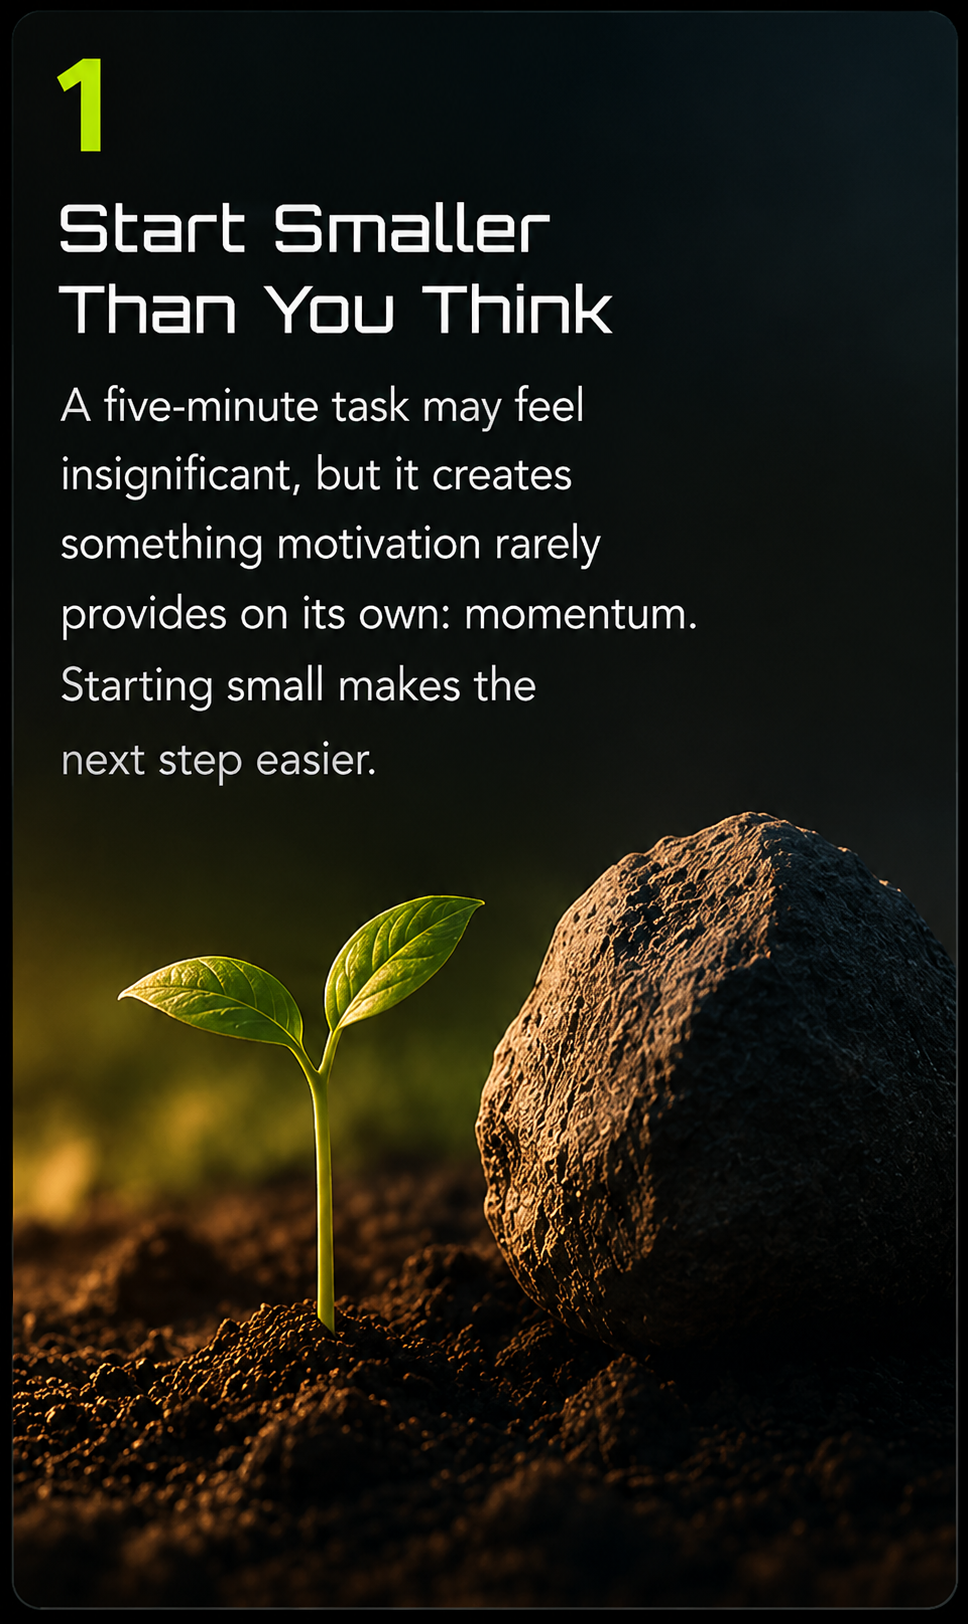
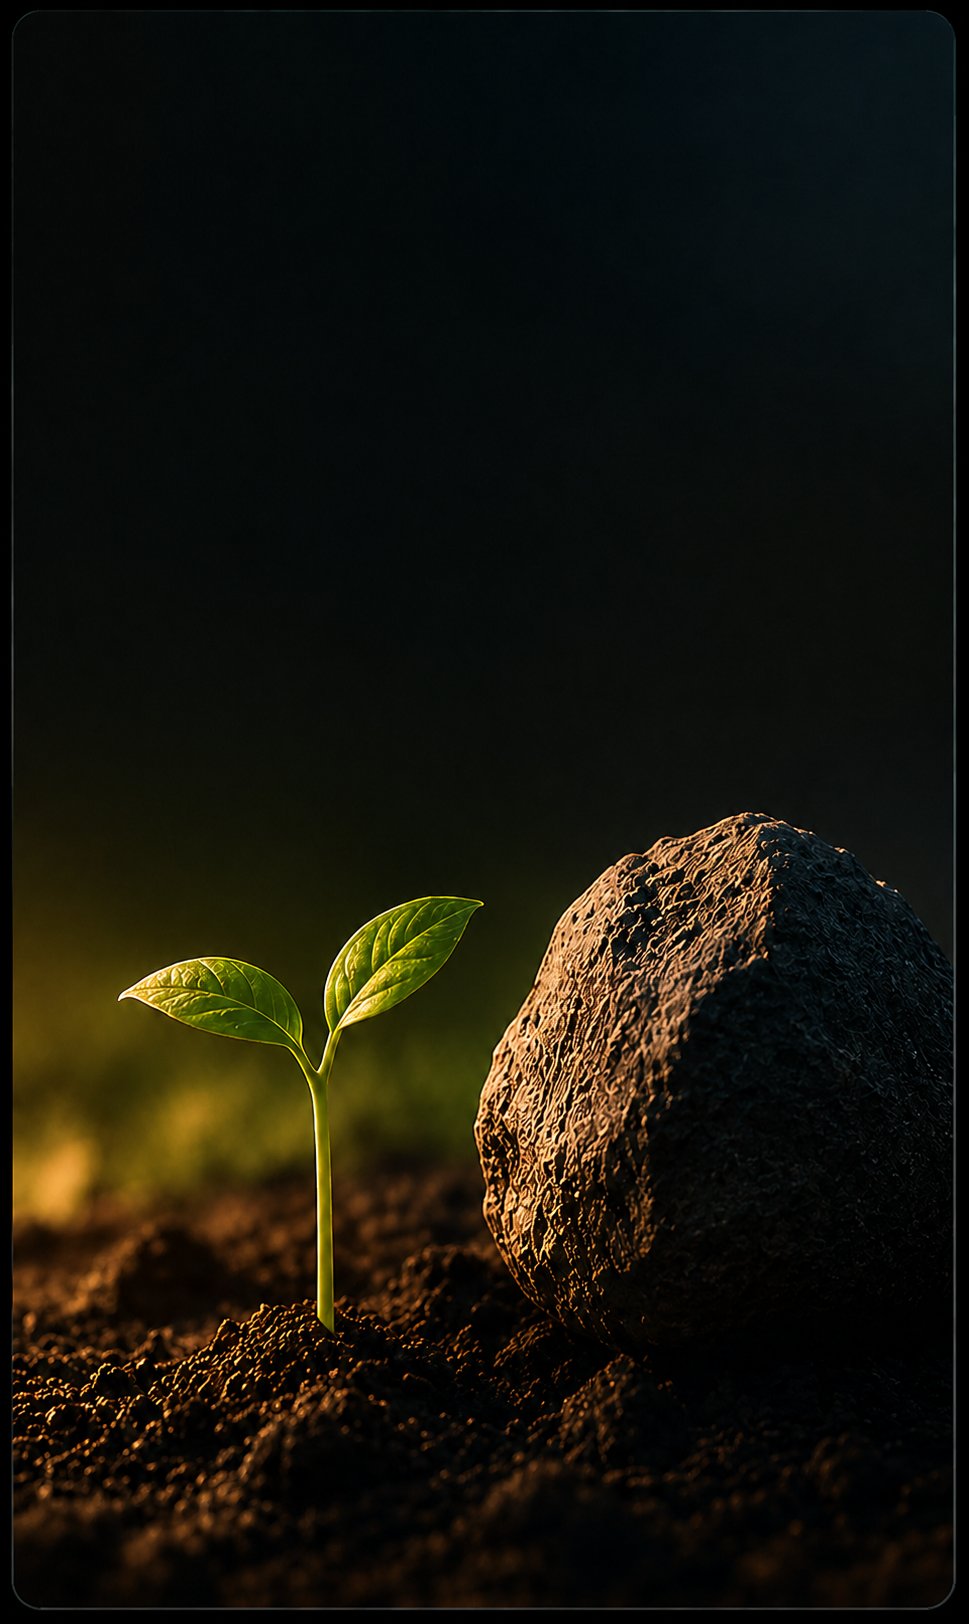
More improvements to onboarding

diff --git a/src/app/tasktimer/components/TaskLaunchOnboarding.tsx b/src/app/tasktimer/components/TaskLaunchOnboarding.tsx
@@ -64,7 +64,6 @@ export type StepKey =
   | "chronotypeChoice"
   | "chronotypeSelection"
   | "chronotypeResult"
-  | "showingUpProgress"
   | "days"
   | "missedDaysProgress"
   | "firstTask"
@@ -112,15 +111,12 @@ export const ONBOARDING_FIRST_TASK_PRESET_COLORS: Readonly<Record<string, string
   "Plan next day": TASK_COLOR_PALETTE[2],
 };
 export const ONBOARDING_FIRST_TASK_PRESET_NAMES = ADD_TASK_PRESET_NAMES.filter((presetName) => presetName !== "Brush teeth");
-export const ONBOARDING_SHOWING_UP_PROGRESS_TITLE = "Focus on Showing Up";
-export const ONBOARDING_SHOWING_UP_PROGRESS_SUBTEXT =
-  "Some days will produce major progress. Others may only produce a few focused minutes. Both matter, because showing up keeps the habit alive.";
 export const ONBOARDING_MISSED_DAYS_PROGRESS_TITLE = "Missed Days Do Not Erase Progress";
 export const ONBOARDING_MISSED_DAYS_PROGRESS_SUBTEXT =
   "A disrupted routine is not a failed routine. Returning after a difficult day is part of building the habit, not proof that you have lost it.";
-export const ONBOARDING_IMPLEMENTATION_INTENTIONS_TITLE = "Your brain responds to precision";
+export const ONBOARDING_IMPLEMENTATION_INTENTIONS_TITLE = "Start Smaller Than You Think";
 export const ONBOARDING_IMPLEMENTATION_INTENTIONS_SUBTEXT =
-  "Vague goals create vague results.\n\nResearch on implementation intentions shows that people who define exactly what they plan to do are two to three times more likely to follow through. You've already taken that first step, which means you're no longer just thinking about change. You're building a clear path towards making it happen.";
+  "A five-minute task may feel insignificant, but it creates something motivation rarely provides on its own: momentum. Starting small makes the next step easier.";
 
 export const ONBOARDING_STEPS: ReadonlyArray<{ key: StepKey; title: string }> = [
   { key: "username", title: "Username" },
@@ -128,7 +124,6 @@ export const ONBOARDING_STEPS: ReadonlyArray<{ key: StepKey; title: string }> = 
   { key: "chronotypeChoice", title: ONBOARDING_CHRONOTYPE_CHOICE_PROMPT },
   { key: "chronotypeSelection", title: ONBOARDING_CHRONOTYPE_SELECTION_PROMPT },
   { key: "chronotypeResult", title: "Chronotype Result" },
-  { key: "showingUpProgress", title: ONBOARDING_SHOWING_UP_PROGRESS_TITLE },
   { key: "days", title: "Productivity Days" },
   { key: "missedDaysProgress", title: ONBOARDING_MISSED_DAYS_PROGRESS_TITLE },
   { key: "firstTask", title: "Let's add your first task" },
@@ -147,7 +142,6 @@ export function onboardingFirstTaskSelectionTitle(choiceId: OnboardingFirstTaskC
 }
 
 export function onboardingNextStepIndex(activeStep: StepKey, stepIndex: number) {
-  if (activeStep === "showingUpProgress") return onboardingStepIndex("chronotypeResult");
   if (activeStep === "firstTask") return stepIndex;
   if (activeStep === "firstTaskSelection") return onboardingStepIndex("implementationIntentions");
   return Math.min(ONBOARDING_STEPS.length - 1, stepIndex + 1);
@@ -181,7 +175,7 @@ export function onboardingBackNavigation(input: {
 }) {
   if (input.activeStep === "chronotypeResult" && input.chronotypeResultPhase === "hours") {
     return {
-      nextStepIndex: onboardingStepIndex("showingUpProgress"),
+      nextStepIndex: onboardingStepIndex("chronotypeResult"),
       nextChronotypeResultPhase: "summary" as ChronotypeResultPhase,
       resetChronotypeChoice: false,
     };
@@ -563,7 +557,6 @@ function stepIntro(step: StepKey, isNativeRuntime: boolean) {
   if (step === "username") return "Confirm the username people will see in TaskLaunch social surfaces.";
   if (step === "chronotypeChoice") return ONBOARDING_CHRONOTYPE_CHOICE_PROMPT;
   if (step === "chronotypeSelection") return ONBOARDING_CHRONOTYPE_SELECTION_PROMPT;
-  if (step === "showingUpProgress") return ONBOARDING_SHOWING_UP_PROGRESS_SUBTEXT;
   if (step === "days") return "Choose the days that count toward your productivity streaks, rewards, and dashboard insights.";
   if (step === "firstTask") {
     return "These simple tasks are easy to complete for a quick win, while also helping you build positive daily habits and support your mental wellbeing.";
@@ -638,7 +631,6 @@ export function shouldShowOnboardingStepImage(step: StepKey) {
     step !== "chronotypeResult" &&
     step !== "firstTask" &&
     step !== "firstTaskSelection" &&
-    step !== "implementationIntentions" &&
     step !== "push"
   );
 }
@@ -646,22 +638,22 @@ export function shouldShowOnboardingStepImage(step: StepKey) {
 export function shouldShowOnboardingStepSubtext(step: StepKey) {
   return (
     step !== "days" &&
-    step !== "showingUpProgress" &&
     step !== "missedDaysProgress" &&
     step !== "greeting" &&
     step !== "chronotypeChoice" &&
     step !== "chronotypeSelection" &&
     step !== "chronotypeResult" &&
-    step !== "firstTaskSelection"
+    step !== "firstTaskSelection" &&
+    step !== "implementationIntentions"
   );
 }
 
 export function shouldShowOnboardingStepHeading(step: StepKey) {
-  return step !== "chronotypeChoice" && step !== "showingUpProgress" && step !== "missedDaysProgress";
+  return step !== "chronotypeChoice" && step !== "missedDaysProgress" && step !== "implementationIntentions";
 }
 
 export function shouldShowOnboardingBackAction(step: StepKey, stepIndex: number) {
-  return stepIndex > 0 && step !== "implementationIntentions";
+  return stepIndex > 0 && step !== "implementationIntentions" && step !== "push";
 }
 
 type OnboardingCustomPropertyStyle = CSSProperties & {
@@ -1160,11 +1152,6 @@ export default function TaskLaunchOnboarding({ preferences }: TaskLaunchOnboardi
       setStatus("");
     };
     if (activeStep === "chronotypeResult" && chronotypeResultPhase === "summary") {
-      advanceToNextStep();
-      return;
-    }
-    if (activeStep === "showingUpProgress") {
-      setStepIndex(onboardingStepIndex("chronotypeResult"));
       setChronotypeResultPhase("hours");
       setStatus("");
       setError("");
@@ -1295,9 +1282,9 @@ export default function TaskLaunchOnboarding({ preferences }: TaskLaunchOnboardi
   const isChronotypeChoiceStep = activeStep === "chronotypeChoice";
   const isChronotypeSelectionStep = activeStep === "chronotypeSelection";
   const isChronotypeResultStep = activeStep === "chronotypeResult";
-  const isShowingUpProgressStep = activeStep === "showingUpProgress";
   const isMissedDaysProgressStep = activeStep === "missedDaysProgress";
-  const isAnecdoteStep = isShowingUpProgressStep || isMissedDaysProgressStep;
+  const isImplementationIntentionsStep = activeStep === "implementationIntentions";
+  const isAnecdoteStep = isMissedDaysProgressStep || isImplementationIntentionsStep;
   const isImageStoryStep = isChronotypeChoiceStep || isAnecdoteStep;
   const isChronotypeHoursPhase = isChronotypeResultStep && chronotypeResultPhase === "hours";
   const isChronotypeResultSummaryStep = isChronotypeResultStep && chronotypeResultPhase === "summary" && !!selectedChronotypeSummary;
@@ -1322,19 +1309,12 @@ export default function TaskLaunchOnboarding({ preferences }: TaskLaunchOnboardi
       ? selectedChronotypeResult?.accentColor || ONBOARDING_NEUTRAL_BACKGROUND_ACCENT
       : onboardingBackgroundAccent,
   } as OnboardingCustomPropertyStyle;
-  const anecdoteStepContent = isShowingUpProgressStep
-    ? {
-        title: ONBOARDING_SHOWING_UP_PROGRESS_TITLE,
-        subtext: ONBOARDING_SHOWING_UP_PROGRESS_SUBTEXT,
-        imageSrc: "/onboarding/onboarding_showing_up.png",
-        titleId: "onboardingShowingUpProgressTitle",
-      }
-    : {
-        title: ONBOARDING_MISSED_DAYS_PROGRESS_TITLE,
-        subtext: ONBOARDING_MISSED_DAYS_PROGRESS_SUBTEXT,
-        imageSrc: "/onboarding/onboarding_missed_days.png",
-        titleId: "onboardingMissedDaysProgressTitle",
-      };
+  const anecdoteStepContent = {
+    title: isImplementationIntentionsStep ? ONBOARDING_IMPLEMENTATION_INTENTIONS_TITLE : ONBOARDING_MISSED_DAYS_PROGRESS_TITLE,
+    subtext: isImplementationIntentionsStep ? ONBOARDING_IMPLEMENTATION_INTENTIONS_SUBTEXT : ONBOARDING_MISSED_DAYS_PROGRESS_SUBTEXT,
+    imageSrc: isImplementationIntentionsStep ? "/onboarding/onboarding_start_small.png" : "/onboarding/onboarding_missed_days.png",
+    titleId: isImplementationIntentionsStep ? "onboardingImplementationIntentionsTitle" : "onboardingMissedDaysProgressTitle",
+  };
 
   return (
     <div className="overlay" id="onboardingOverlay" style={{ display: "flex" }}>
@@ -1391,21 +1371,37 @@ export default function TaskLaunchOnboarding({ preferences }: TaskLaunchOnboardi
               </div>
             </section>
           ) : showStepImage && isAnecdoteStep ? (
-            <section className="onboardingAnecdoteCard" aria-labelledby={anecdoteStepContent.titleId}>
+            <section
+              className={`onboardingAnecdoteCard${isImplementationIntentionsStep ? " onboardingStartImageCard" : ""}`}
+              aria-labelledby={anecdoteStepContent.titleId}
+            >
               <AppImg
-                className="onboardingChronotypePreview onboardingAnecdoteCardPreview"
+                className={`onboardingChronotypePreview onboardingAnecdoteCardPreview${
+                  isImplementationIntentionsStep ? " onboardingStartImagePreview" : ""
+                }`}
                 src={anecdoteStepContent.imageSrc}
                 alt=""
-                width={966}
-                height={1628}
+                width={isImplementationIntentionsStep ? 969 : 966}
+                height={isImplementationIntentionsStep ? 1624 : 1628}
                 aria-hidden="true"
               />
-              <div className="onboardingAnecdoteTextOverlay">
-                <h2 className="onboardingAnecdoteTitle" id={anecdoteStepContent.titleId}>
-                  {anecdoteStepContent.title}
-                </h2>
-                <p className="onboardingAnecdoteSubtext">{anecdoteStepContent.subtext}</p>
-              </div>
+              {isImplementationIntentionsStep ? (
+                <div className="onboardingAnecdoteTextOverlay onboardingStartImageTextOverlay">
+                  <h2 className="onboardingAnecdoteTitle onboardingChronotypeKnowledgeTitle onboardingStartImageTitle" id={anecdoteStepContent.titleId}>
+                    {anecdoteStepContent.title}
+                  </h2>
+                  <p className="onboardingAnecdoteSubtext onboardingChronotypeKnowledgeSubtext onboardingStartImageSubtext">
+                    {anecdoteStepContent.subtext}
+                  </p>
+                </div>
+              ) : (
+                <div className="onboardingAnecdoteTextOverlay">
+                  <h2 className="onboardingAnecdoteTitle" id={anecdoteStepContent.titleId}>
+                    {anecdoteStepContent.title}
+                  </h2>
+                  <p className="onboardingAnecdoteSubtext">{anecdoteStepContent.subtext}</p>
+                </div>
+              )}
             </section>
           ) : showStepImage ? (
             <AppImg

diff --git a/src/app/tasktimer/components/TaskLaunchOnboarding.test.ts b/src/app/tasktimer/components/TaskLaunchOnboarding.test.ts
@@ -28,8 +28,6 @@ import {
   ONBOARDING_IMPLEMENTATION_INTENTIONS_TITLE,
   ONBOARDING_MISSED_DAYS_PROGRESS_SUBTEXT,
   ONBOARDING_MISSED_DAYS_PROGRESS_TITLE,
-  ONBOARDING_SHOWING_UP_PROGRESS_SUBTEXT,
-  ONBOARDING_SHOWING_UP_PROGRESS_TITLE,
   ONBOARDING_USERNAME_TAKEN_INLINE_MESSAGE,
   ONBOARDING_STEPS,
   canContinueOnboardingStep,
@@ -93,7 +91,6 @@ describe("TaskLaunchOnboarding steps", () => {
       "chronotypeChoice",
       "chronotypeSelection",
       "chronotypeResult",
-      "showingUpProgress",
       "days",
       "missedDaysProgress",
       "firstTask",
@@ -214,11 +211,6 @@ describe("TaskLaunchOnboarding steps", () => {
   });
 
   it("keeps the productivity-days title after the chronotype result step", () => {
-    expect(onboardingTitle("showingUpProgress", "Avery")).toBe(ONBOARDING_SHOWING_UP_PROGRESS_TITLE);
-    expect(ONBOARDING_SHOWING_UP_PROGRESS_TITLE).toBe("Focus on Showing Up");
-    expect(ONBOARDING_SHOWING_UP_PROGRESS_SUBTEXT).toBe(
-      "Some days will produce major progress. Others may only produce a few focused minutes. Both matter, because showing up keeps the habit alive."
-    );
     expect(onboardingTitle("days", "Avery")).toBe("Productivity Days");
     expect(onboardingTitle("missedDaysProgress", "Avery")).toBe(ONBOARDING_MISSED_DAYS_PROGRESS_TITLE);
     expect(ONBOARDING_MISSED_DAYS_PROGRESS_TITLE).toBe("Missed Days Do Not Erase Progress");
@@ -250,9 +242,6 @@ describe("TaskLaunchOnboarding steps", () => {
     expect(shouldShowOnboardingStepSubtext("chronotypeSelection")).toBe(false);
     expect(shouldShowOnboardingStepImage("chronotypeResult")).toBe(false);
     expect(shouldShowOnboardingStepSubtext("chronotypeResult")).toBe(false);
-    expect(shouldShowOnboardingStepImage("showingUpProgress")).toBe(true);
-    expect(shouldShowOnboardingStepHeading("showingUpProgress")).toBe(false);
-    expect(shouldShowOnboardingStepSubtext("showingUpProgress")).toBe(false);
     expect(shouldShowOnboardingStepImage("missedDaysProgress")).toBe(true);
     expect(shouldShowOnboardingStepHeading("missedDaysProgress")).toBe(false);
     expect(shouldShowOnboardingStepSubtext("missedDaysProgress")).toBe(false);
@@ -260,18 +249,18 @@ describe("TaskLaunchOnboarding steps", () => {
     expect(shouldShowOnboardingStepSubtext("firstTask")).toBe(true);
     expect(shouldShowOnboardingStepImage("firstTaskSelection")).toBe(false);
     expect(shouldShowOnboardingStepSubtext("firstTaskSelection")).toBe(false);
-    expect(shouldShowOnboardingStepImage("implementationIntentions")).toBe(false);
-    expect(shouldShowOnboardingStepSubtext("implementationIntentions")).toBe(true);
+    expect(shouldShowOnboardingStepImage("implementationIntentions")).toBe(true);
+    expect(shouldShowOnboardingStepHeading("implementationIntentions")).toBe(false);
+    expect(shouldShowOnboardingStepSubtext("implementationIntentions")).toBe(false);
     expect(shouldShowOnboardingStepImage("push")).toBe(false);
   });
 
   it("routes the first-task branch page back into notifications", () => {
-    expect(onboardingNextStepIndex("chronotypeResult", onboardingStepIndex("chronotypeResult"))).toBe(onboardingStepIndex("showingUpProgress"));
+    expect(onboardingNextStepIndex("chronotypeResult", onboardingStepIndex("chronotypeResult"))).toBe(onboardingStepIndex("days"));
     expect(onboardingNextStepIndexForPhase("chronotypeResult", onboardingStepIndex("chronotypeResult"), "summary")).toBe(
-      onboardingStepIndex("showingUpProgress")
+      onboardingStepIndex("days")
     );
     expect(onboardingNextStepIndexForPhase("chronotypeResult", onboardingStepIndex("chronotypeResult"), "hours")).toBe(onboardingStepIndex("days"));
-    expect(onboardingNextStepIndex("showingUpProgress", onboardingStepIndex("showingUpProgress"))).toBe(onboardingStepIndex("chronotypeResult"));
     expect(onboardingNextStepIndex("days", onboardingStepIndex("days"))).toBe(onboardingStepIndex("missedDaysProgress"));
     expect(onboardingNextStepIndex("missedDaysProgress", onboardingStepIndex("missedDaysProgress"))).toBe(onboardingStepIndex("firstTask"));
     expect(onboardingNextStepIndex("firstTask", onboardingStepIndex("firstTask"))).toBe(onboardingStepIndex("firstTask"));
@@ -280,9 +269,9 @@ describe("TaskLaunchOnboarding steps", () => {
     );
     expect(onboardingNextStepIndex("implementationIntentions", onboardingStepIndex("implementationIntentions"))).toBe(onboardingStepIndex("push"));
     expect(onboardingStepIndexAfterTaskCreated()).toBe(onboardingStepIndex("implementationIntentions"));
-    expect(ONBOARDING_IMPLEMENTATION_INTENTIONS_TITLE).toBe("Your brain responds to precision");
+    expect(ONBOARDING_IMPLEMENTATION_INTENTIONS_TITLE).toBe("Start Smaller Than You Think");
     expect(ONBOARDING_IMPLEMENTATION_INTENTIONS_SUBTEXT).toBe(
-      "Vague goals create vague results.\n\nResearch on implementation intentions shows that people who define exactly what they plan to do are two to three times more likely to follow through. You've already taken that first step, which means you're no longer just thinking about change. You're building a clear path towards making it happen."
+      "A five-minute task may feel insignificant, but it creates something motivation rarely provides on its own: momentum. Starting small makes the next step easier."
     );
     expect(isOnboardingContinueDisabled(false, "firstTask", ["mon"], "")).toBe(true);
     expect(isOnboardingContinueDisabled(false, "firstTaskSelection", ["mon"], "", false)).toBe(true);
@@ -293,7 +282,7 @@ describe("TaskLaunchOnboarding steps", () => {
   it("removes Back after the onboarding task has been added", () => {
     expect(shouldShowOnboardingBackAction("firstTaskSelection", onboardingStepIndex("firstTaskSelection"))).toBe(true);
     expect(shouldShowOnboardingBackAction("implementationIntentions", onboardingStepIndex("implementationIntentions"))).toBe(false);
-    expect(shouldShowOnboardingBackAction("push", onboardingStepIndex("push"))).toBe(true);
+    expect(shouldShowOnboardingBackAction("push", onboardingStepIndex("push"))).toBe(false);
   });
 
   it("uses the default task parameters for select-a-task preset creation", () => {
@@ -568,7 +557,7 @@ describe("TaskLaunchOnboarding steps", () => {
     });
   });
 
-  it("routes Back from chronotype productivity hours to the showing-up card", () => {
+  it("routes Back from chronotype productivity hours to the chronotype summary", () => {
     expect(
       onboardingBackNavigation({
         activeStep: "chronotypeResult",
@@ -577,7 +566,7 @@ describe("TaskLaunchOnboarding steps", () => {
         stepIndex: onboardingStepIndex("chronotypeResult"),
       })
     ).toEqual({
-      nextStepIndex: onboardingStepIndex("showingUpProgress"),
+      nextStepIndex: onboardingStepIndex("chronotypeResult"),
       nextChronotypeResultPhase: "summary",
       resetChronotypeChoice: false,
     });

diff --git a/src/app/tasktimer/styles/04-overlays.css b/src/app/tasktimer/styles/04-overlays.css
@@ -9145,6 +9145,33 @@ body[data-theme="lime"] #editOverlay .milestonesSummaryCollapseLabel::after{
   width: 100%;
 }
 
+#onboardingOverlay .onboardingChronotypePreview.onboardingStartImagePreview{
+  aspect-ratio: 969 / 1624;
+}
+
+#onboardingOverlay .onboardingStartImageCard::before{
+  content: none;
+}
+
+#onboardingOverlay .onboardingStartImageTextOverlay{
+  left: clamp(28px, 7vw, 46px);
+  right: clamp(28px, 7vw, 46px);
+  top: clamp(76px, 11dvh, 108px);
+}
+
+#onboardingOverlay .onboardingStartImageTitle{
+  font-size: 36px !important;
+  line-height: 1.18 !important;
+  margin-bottom: 28px !important;
+  max-width: 12ch;
+}
+
+#onboardingOverlay .onboardingStartImageSubtext{
+  font-size: 18px !important;
+  line-height: 1.5 !important;
+  max-width: 26ch;
+}
+
 #onboardingOverlay .modal.onboardingAnecdoteModal{
   align-self: center;
   height: min(92dvh, 760px);
@@ -11940,6 +11967,29 @@ body[data-theme="lime"] #editOverlay .milestonesSummaryCollapseLabel::after{
     object-fit: contain;
     object-position: center center;
     width: 100%;
+  }
+
+  #onboardingOverlay .modal.onboardingAnecdoteModal .onboardingStartImagePreview{
+    object-fit: cover;
+  }
+
+  #onboardingOverlay .modal.onboardingAnecdoteModal .onboardingStartImageTextOverlay{
+    left: clamp(28px, 8vw, 36px);
+    right: clamp(28px, 8vw, 36px);
+    top: calc(env(safe-area-inset-top, 0px) + 78px);
+  }
+
+  #onboardingOverlay .modal.onboardingAnecdoteModal .onboardingStartImageTitle{
+    font-size: clamp(30px, 9.2vw, 39px) !important;
+    line-height: 1.08 !important;
+    margin-bottom: 20px !important;
+    max-width: 11ch;
+  }
+
+  #onboardingOverlay .modal.onboardingAnecdoteModal .onboardingStartImageSubtext{
+    font-size: clamp(16px, 4.5vw, 18px) !important;
+    line-height: 1.38 !important;
+    max-width: 24ch;
   }
 
   #onboardingOverlay .modal.onboardingChronotypeKnowledgeModal .onboardingChronotypeKnowledgeCard{
